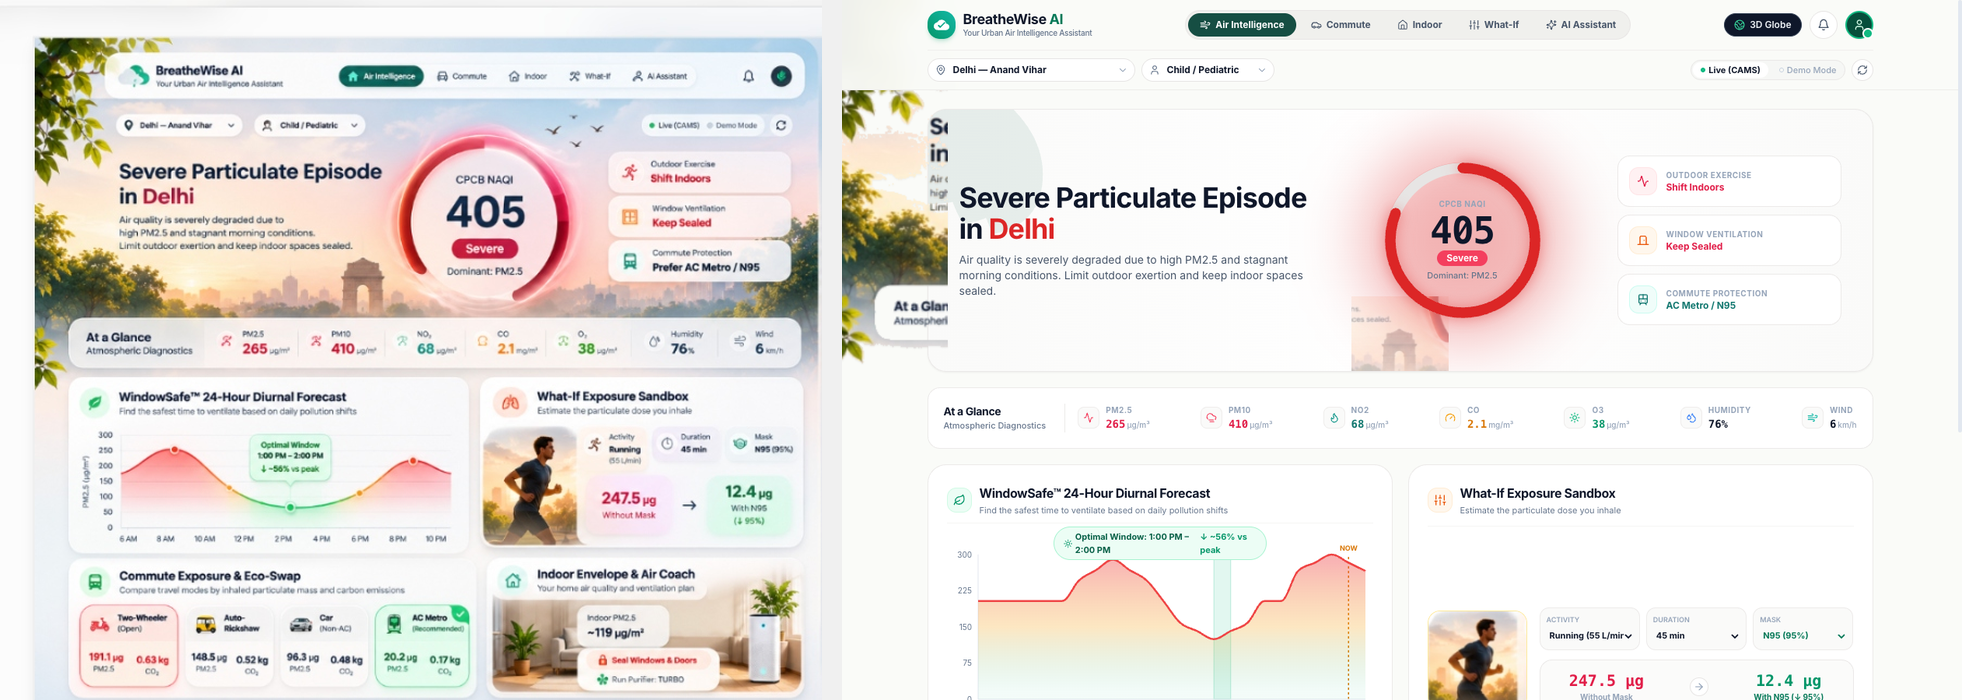
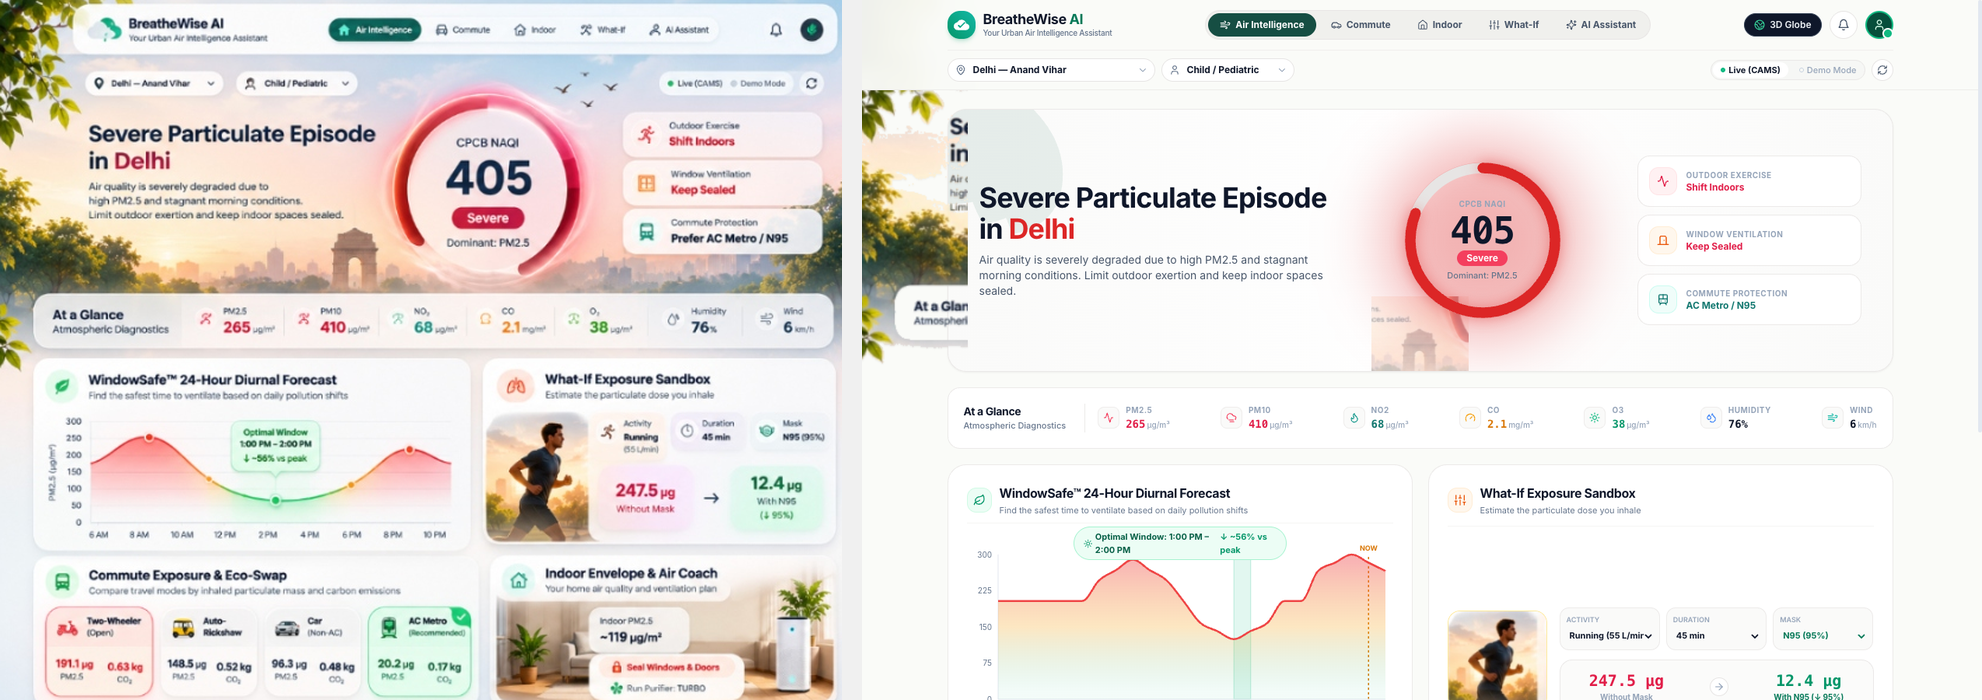
fix(fidelity): calibrate Hero India Gate horizontal position, sunrise atmospheric gradient, and skyline

diff --git a/src/components/HeroDirective.tsx b/src/components/HeroDirective.tsx
@@ -28,27 +28,37 @@ export const HeroDirective: React.FC = () => {
   const strokeDashoffset = circumference - (normalizedAqi / 500) * circumference;
 
   return (
-    <div className="relative overflow-hidden rounded-3xl bg-gradient-to-r from-stone-50 via-white to-stone-50 border border-stone-200/80 p-6 sm:p-8 lg:p-10 shadow-sm">
+    <div className="relative overflow-hidden rounded-3xl bg-gradient-to-r from-[#FBF8F5] via-[#FFF3EE] to-[#F5F8F7] border border-stone-200/80 p-6 sm:p-8 lg:p-10 shadow-xs">
       
       {/* 1. Atmospheric Foliage & Monument Silhouette Background Graphic (Matches Image 2) */}
-      <div className="absolute top-0 left-0 w-64 h-64 opacity-25 pointer-events-none -ml-8 -mt-8">
-        {/* Soft green botanical leafy tree overlay */}
-        <svg viewBox="0 0 200 200" fill="none" className="w-full h-full text-emerald-800">
+      {/* Lush Green Trees along Bottom Left & Foreground */}
+      <div className="absolute bottom-0 left-0 w-72 h-20 opacity-30 pointer-events-none z-0">
+        <svg viewBox="0 0 280 80" fill="none" className="w-full h-full text-emerald-800">
           <path
-            d="M0,0 Q60,20 80,70 T20,120 Q0,80 0,0 Z M40,0 Q100,30 110,80 T60,140 Q30,90 40,0 Z M80,0 Q140,40 140,90 T90,150 Q60,90 80,0 Z"
+            d="M0 80 Q 20 40 45 60 Q 70 30 100 55 Q 130 35 160 65 Q 190 40 220 70 Q 250 45 280 80 Z"
             fill="currentColor"
-            opacity="0.35"
+            opacity="0.4"
           />
         </svg>
       </div>
 
-      {/* India Gate / Monument Silhouette in Background Center (Exact Image 2 Match) */}
-      <div className="absolute bottom-0 left-1/2 -translate-x-1/2 w-64 h-28 pointer-events-none flex items-end justify-center z-0">
+      {/* India Gate Silhouette between Left Headline and Center Radial Dial (Exact Image 2 Position: ~35% width) */}
+      <div className="absolute bottom-0 left-[32%] sm:left-[35%] lg:left-[36%] w-28 sm:w-32 h-24 pointer-events-none flex items-end justify-center z-0">
         <img
           src="/images/india-gate.png"
           alt="India Gate Monument"
-          className="w-auto h-24 object-contain mix-blend-multiply opacity-45"
+          className="w-full h-auto object-contain mix-blend-multiply opacity-55"
         />
+      </div>
+
+      {/* Flock of Birds in the Morning Haze Sky (Matches Image 2 Sky) */}
+      <div className="absolute top-6 left-[44%] w-24 h-10 pointer-events-none opacity-40 z-0">
+        <svg viewBox="0 0 100 40" fill="currentColor" className="w-full h-full text-stone-700">
+          <path d="M10 20 Q 15 15 20 20 Q 25 15 30 20 Q 25 18 20 21 Q 15 18 10 20 Z" />
+          <path d="M40 12 Q 43 8 46 12 Q 49 8 52 12 Q 49 10 46 13 Q 43 10 40 12 Z" />
+          <path d="M65 18 Q 69 13 73 18 Q 77 13 81 18 Q 77 16 73 19 Q 69 16 65 18 Z" />
+          <path d="M85 8 Q 87 5 89 8 Q 91 5 93 8 Q 91 6 89 9 Q 87 6 85 8 Z" />
+        </svg>
       </div>
 
       {/* 2. Main 3-Column Hero Grid: Left Text, Center Radial Dial, Right Quick Decision Cards */}
